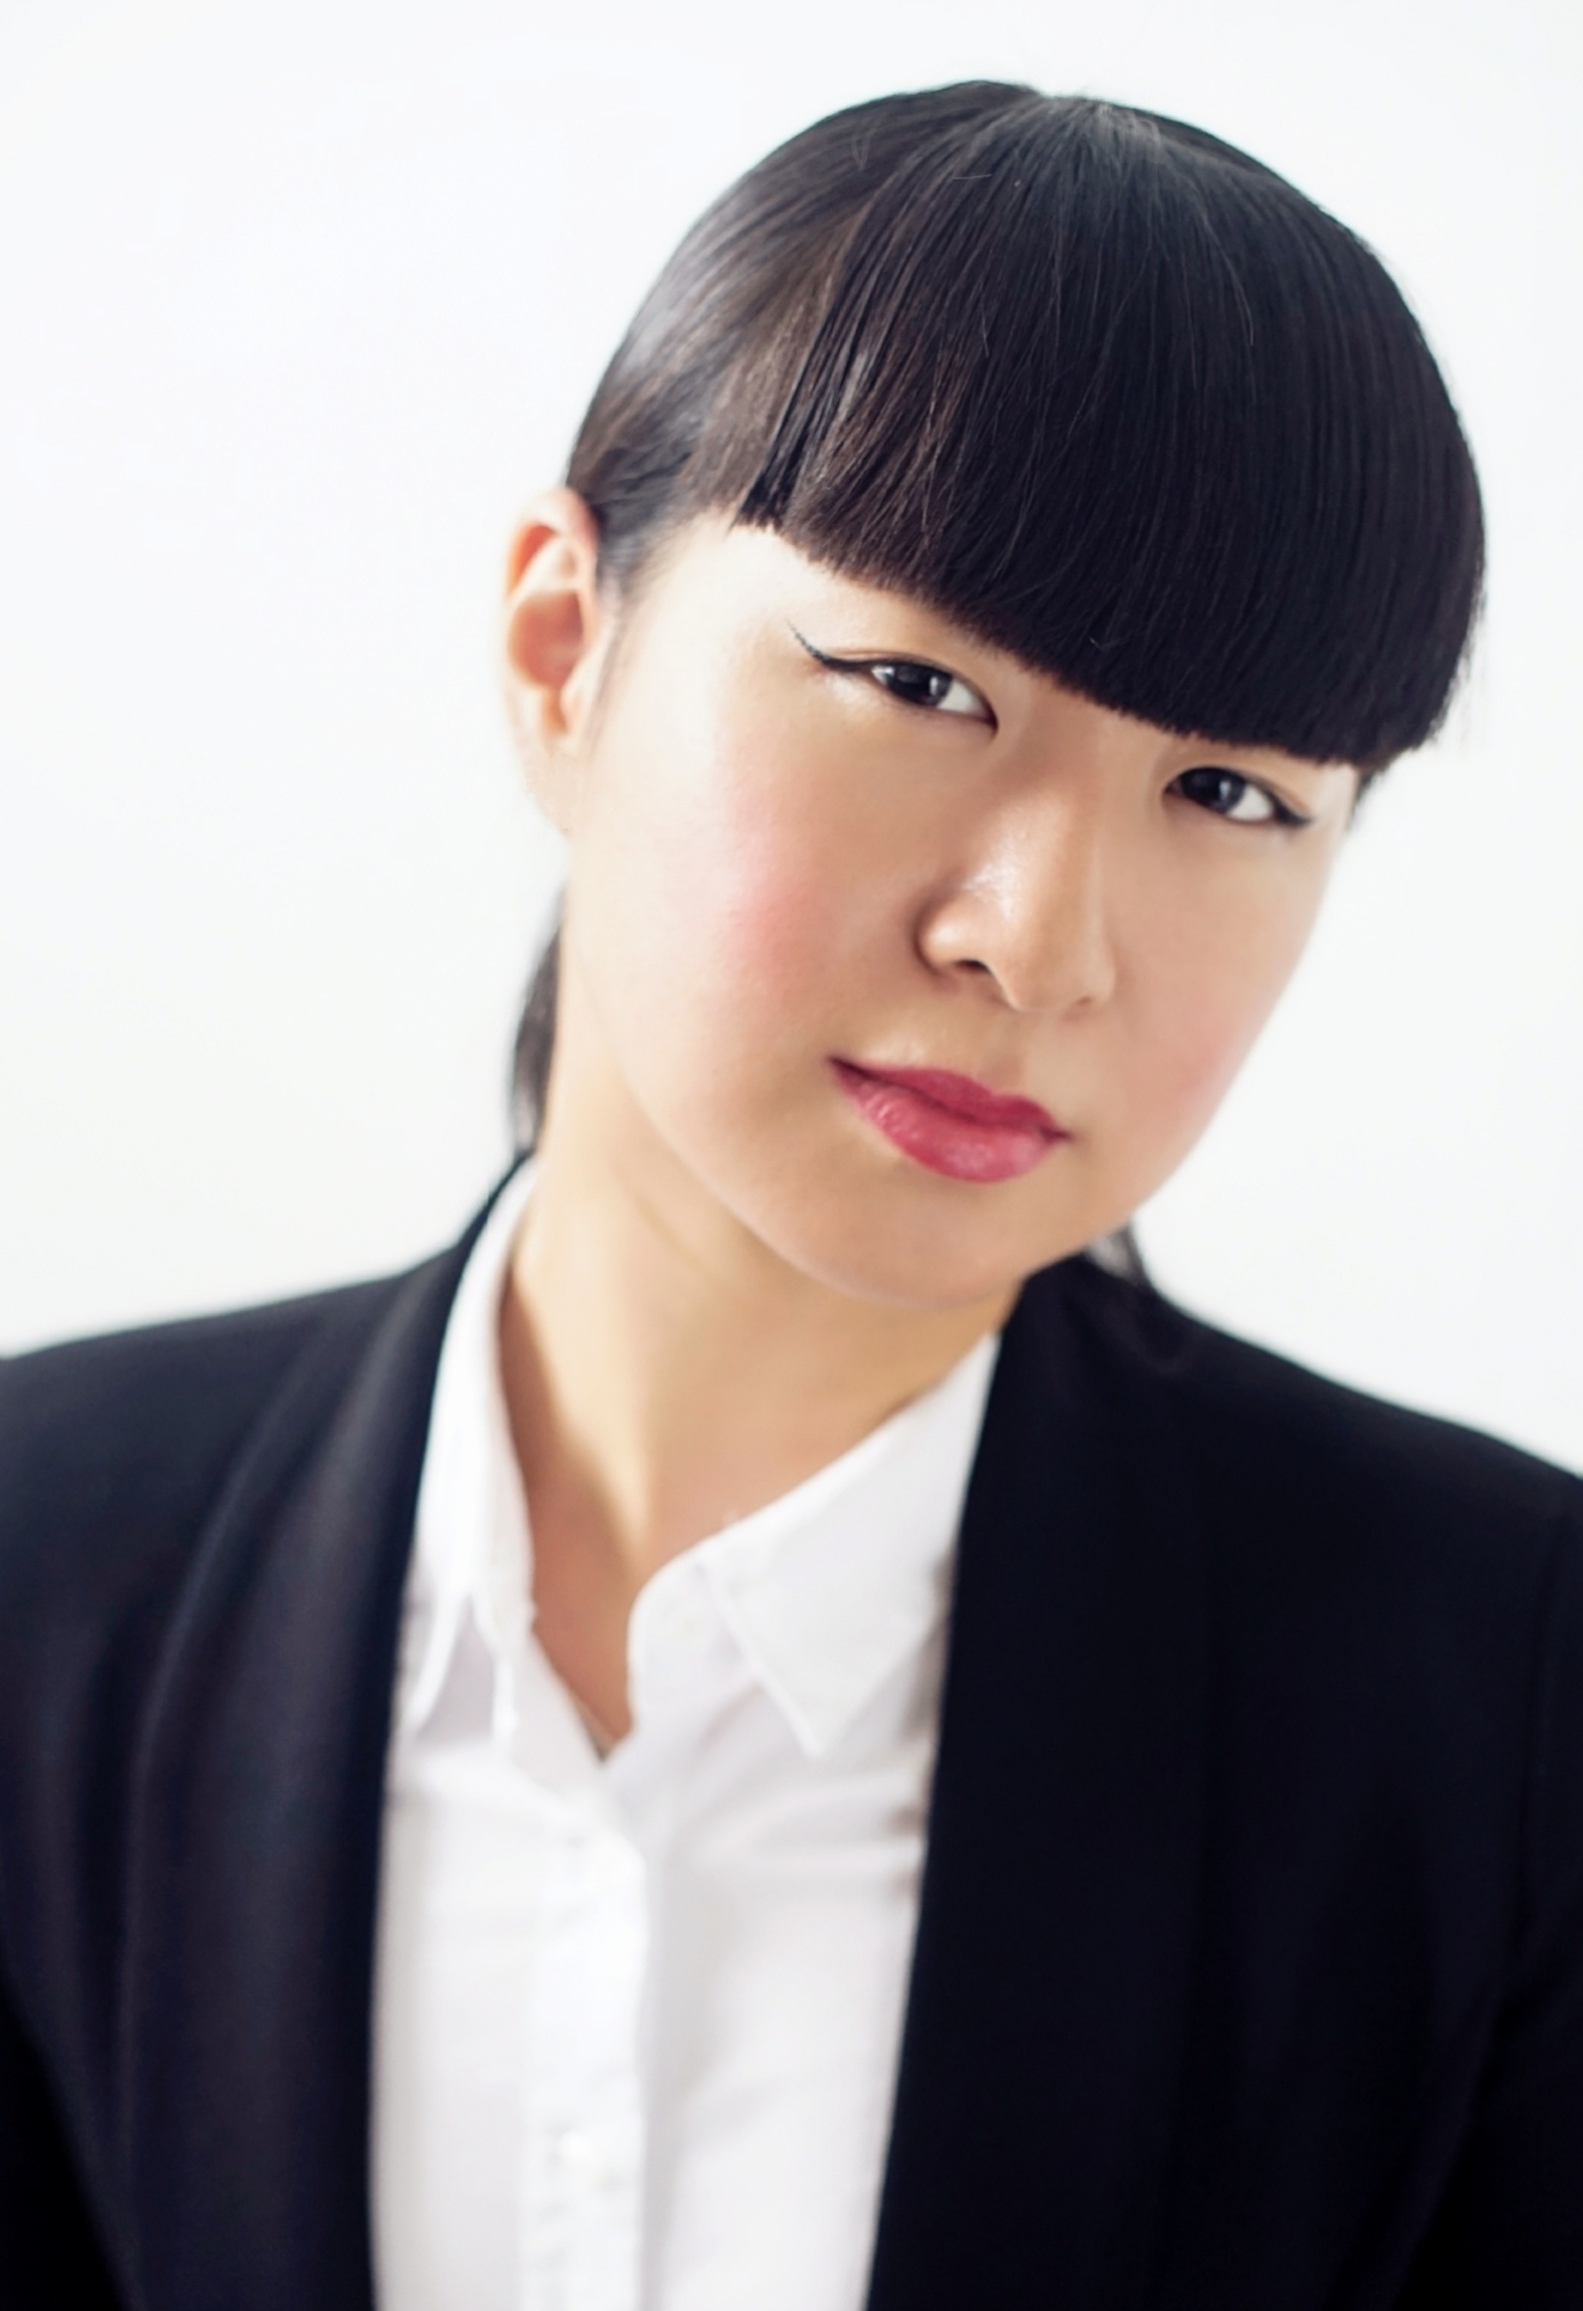
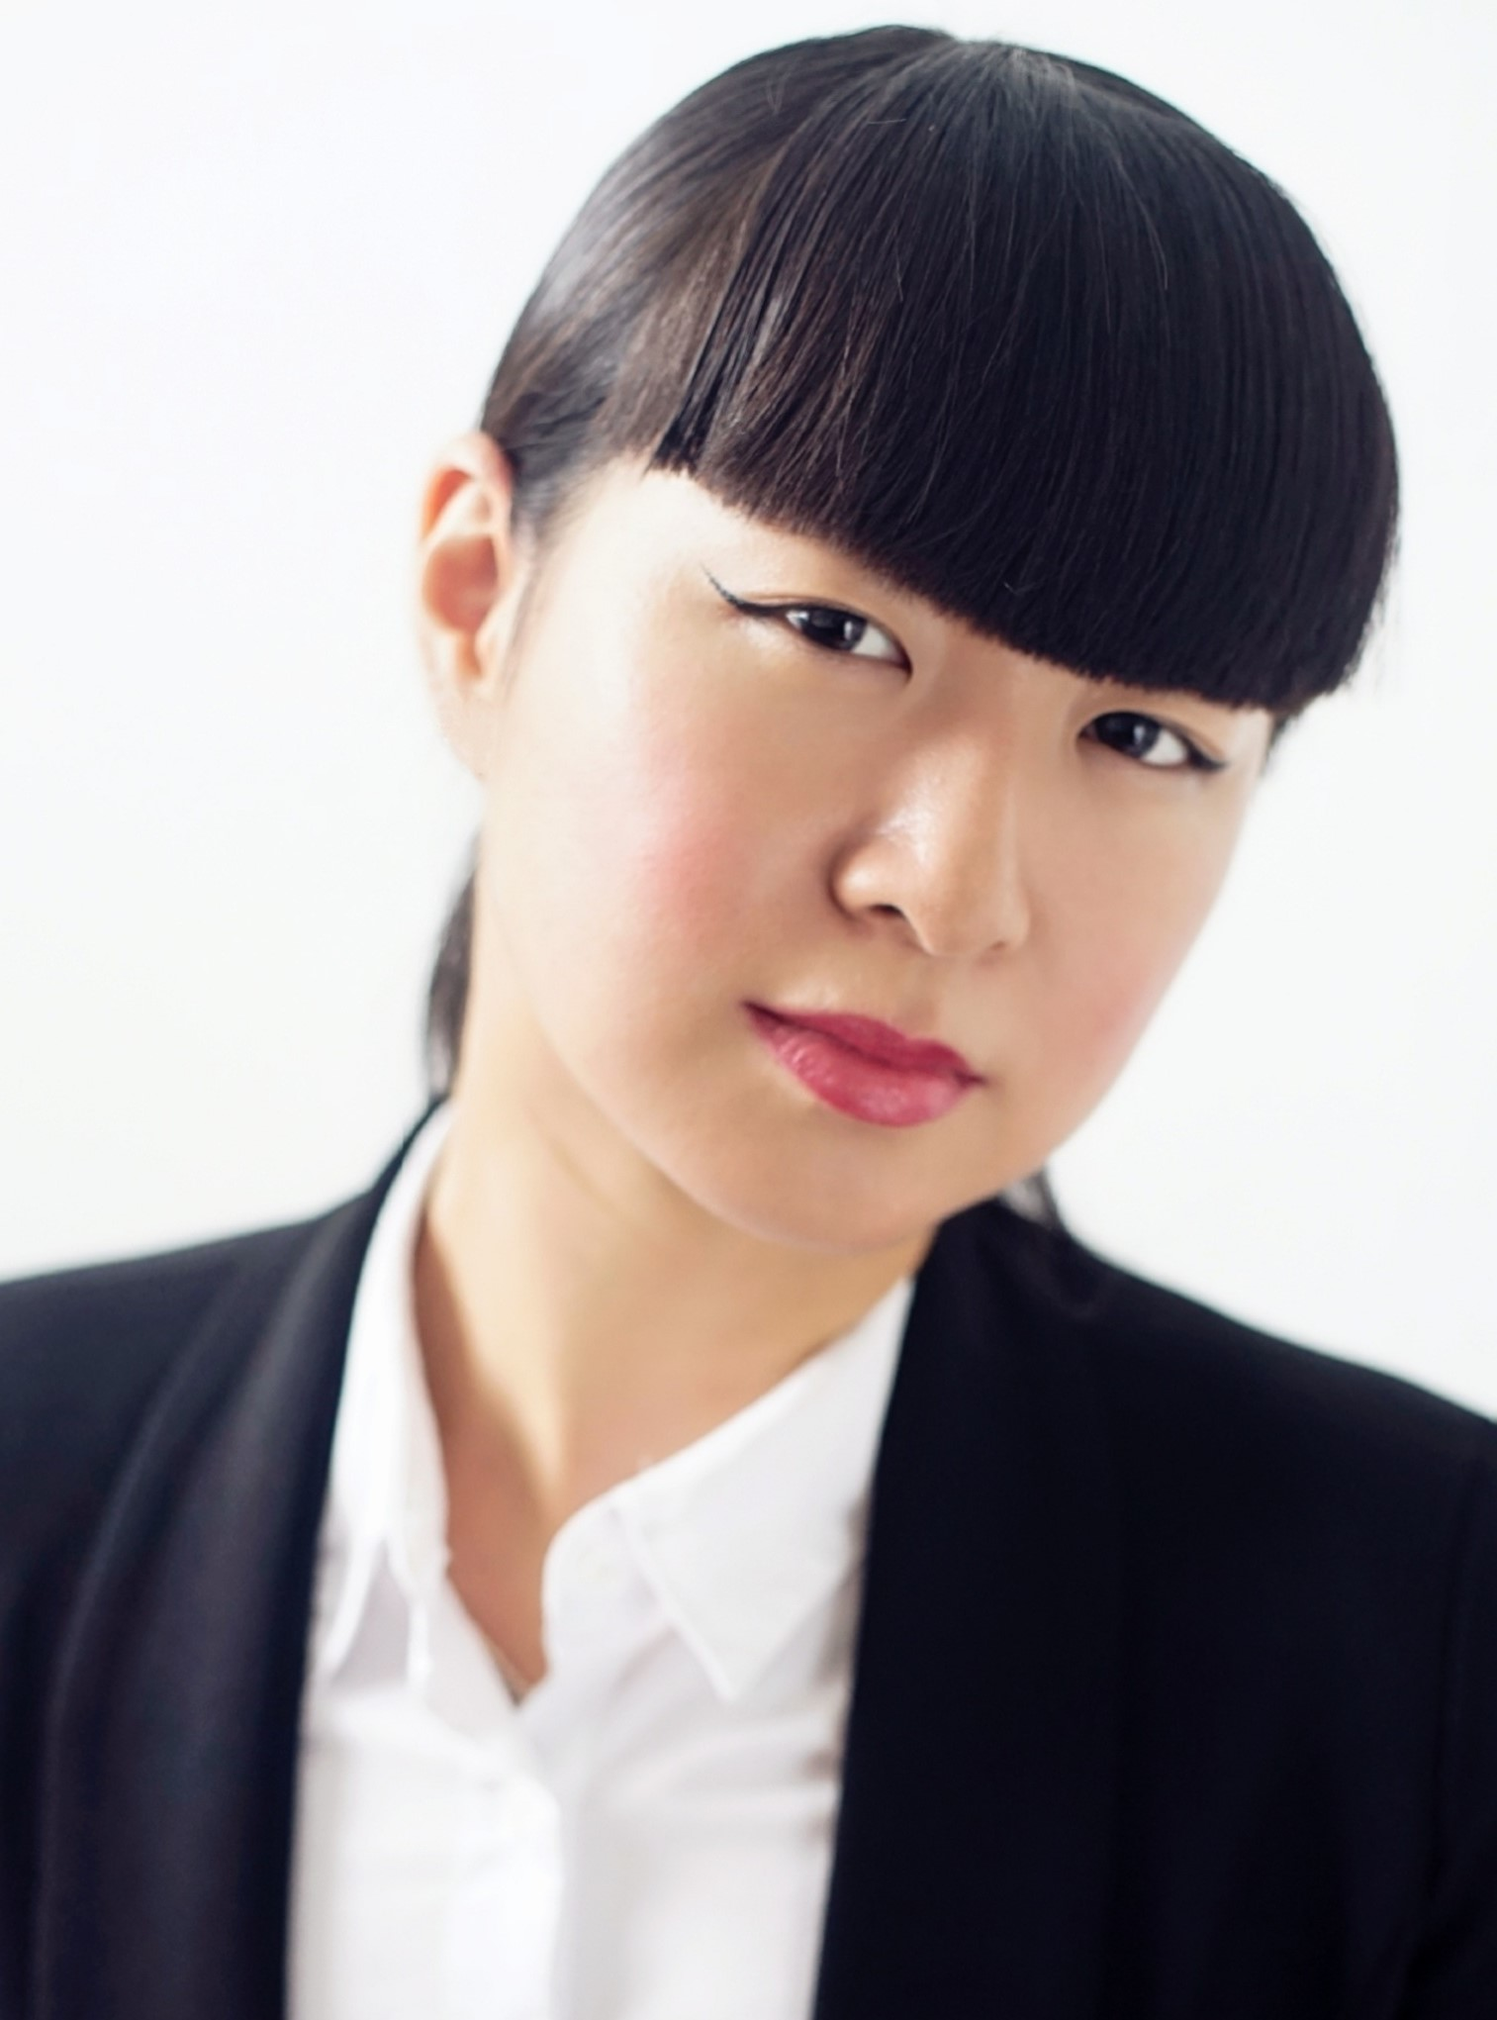
Finishing hero section

diff --git a/style.css b/style.css
@@ -154,6 +154,10 @@ section {
   margin: auto 0;
 }
 
+.pic-container img {
+  clip-path: circle(48% at center);
+}
+
 .intro-text {
   align-self: center;
   text-align: center;
@@ -164,11 +168,14 @@ section {
 }
 
 .intro-text .p1 {
+  font-size: 1.6rem;
   text-align: center;
+  margin-bottom: 0.2rem;
 }
 
 .intro-text .p2 {
   font-size: 1.8rem;
+  margin-top: 0.2rem;
   margin-bottom: 1rem;
 }
 
@@ -205,6 +212,18 @@ section {
   border-radius: 2rem;
 }
 
+.btn:hover {
+  cursor: pointer;
+}
+.btn-color-1 {
+  border: rgb(53, 53, 53) 0.1rem solid;
+  background: white;
+}
+
+.btn-color-1:hover {
+  background-color: black;
+  color: white;
+}
 .league {
   font-family: "League Spartan", sans-serif;
   font-weight: 900;

diff --git a/index.html b/index.html
@@ -56,7 +56,7 @@
         <h1 class="main-name">Xiao Xue Xu Lin</h1>
         <p class="p2">Web Developer</p>
         <div class="btn-container">
-          <button class="btn btn-color-2" onclick="location.href='./#contact'">
+          <button class="btn btn-color-1" onclick="location.href='./#contact'">
             Contact Info
           </button>
         </div>
